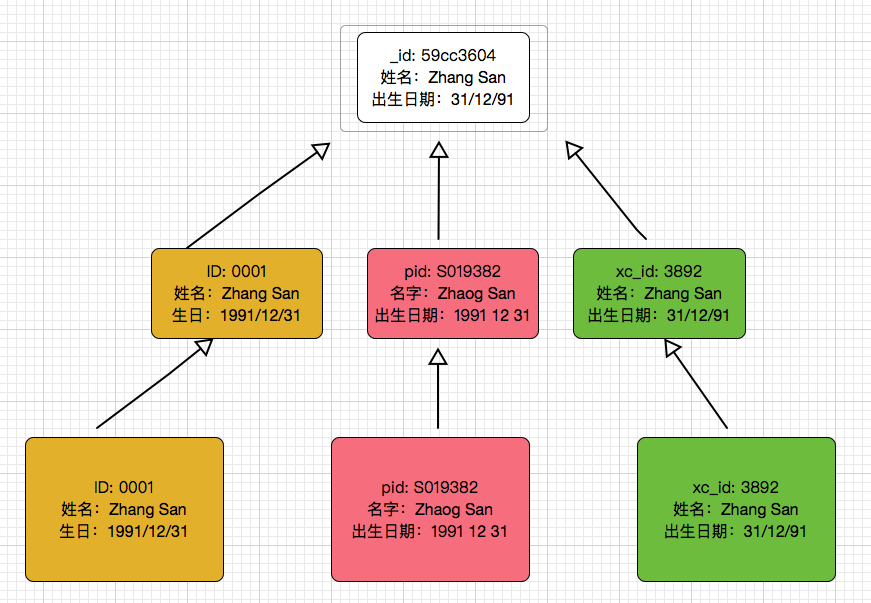
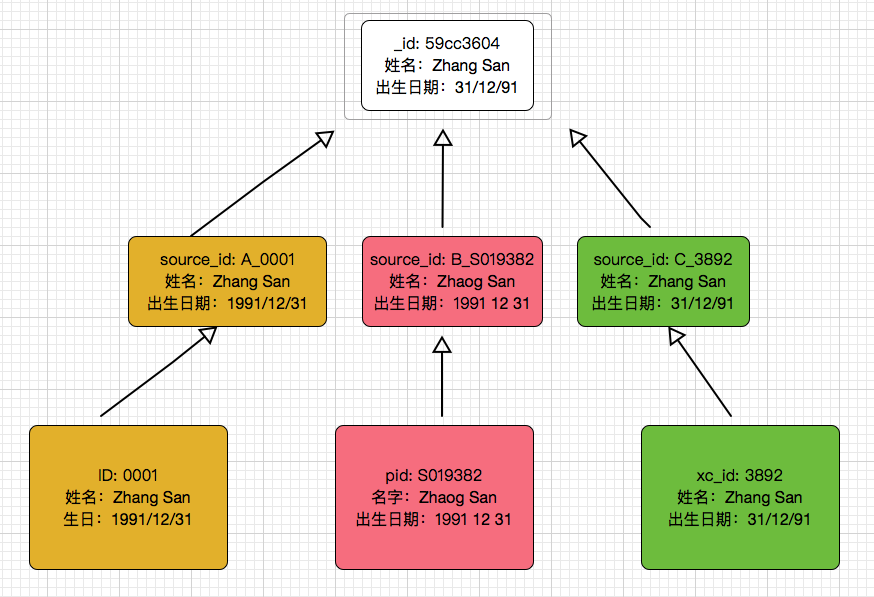
update blog

diff --git a/blogs/mongo/identify-your-user/readme.md b/blogs/mongo/identify-your-user/readme.md
@@ -26,7 +26,18 @@
 
 ![系统用户](./user-1.png)
 
-上图中列出了三个系统，分别使用SQL Server，MySQL以及MongoDB作为产品数据库。每个系统中存在一个用户，比较特别的是这个用户看起来都一样，只不过在MySQL中，用户的名字是`Zhaog San`，而其他两个系统都是`Zhang San`；另外，用户出生日期的格式在三个系统中也是不一样的，分别是`1991/12/31`、`1991 12 31`和`31/12／91`。在仔细观察一下会发现，数据库的字段也不用，有`生日`，`出生日期`，`姓名`，`名字`，`ID`和`pid`等。通过人为观察，我们可以人为这三条记录实际上属于同一个人，姓名的不同可能是拼写错误导致，其他问题都可以归结为数据库格式或者字段命名上的差别。如何进行用户识别呢？我给大家分几步来完成。
+上图中列出了三个系统，分别使用SQL Server，MySQL以及MongoDB作为产品数据库。每个系统中存在一个用户，比较特别的是这个用户看起来都一样，只不过在MySQL中，用户的名字是`Zhaog San`，而其他两个系统都是`Zhang San`；另外，用户出生日期的格式在三个系统中也是不一样的，分别是`1991/12/31`、`1991 12 31`和`31/12／91`。在仔细观察一下会发现，数据库的字段也不用，有`生日`，`出生日期`，`姓名`，`名字`，`ID`和`pid`等。通过人为观察，我们可以人为这三条记录实际上属于同一个人，姓名的不同可能是拼写错误导致，其他问题都可以归结为数据库格式或者字段命名上的差别。如何进行用户识别呢？假定我们要把数据整合进MongoDB中，我给大家分几步来完成。
+
+![用户合并](./user-2.png)
+
+在上图中，我们对现有三个系统中的用户进行了两步操作，首先我们将用户的字段和格式改成统一标准，字段包括`source_id`,`姓名`,`出生日期`，在source_id中标记了用户来自A、B、C三个系统。之后，再按照一定算法对统一的用户进行合并从而得到图中最上面的纪录。在合并好数据以后，出于纪录可追溯性方面的考虑，我们还需要记录用户是从哪个系统导入进来的。例如下面的json数据：
+
+```json
+{
+  "_id": 
+}
+
+```
 
 
 
